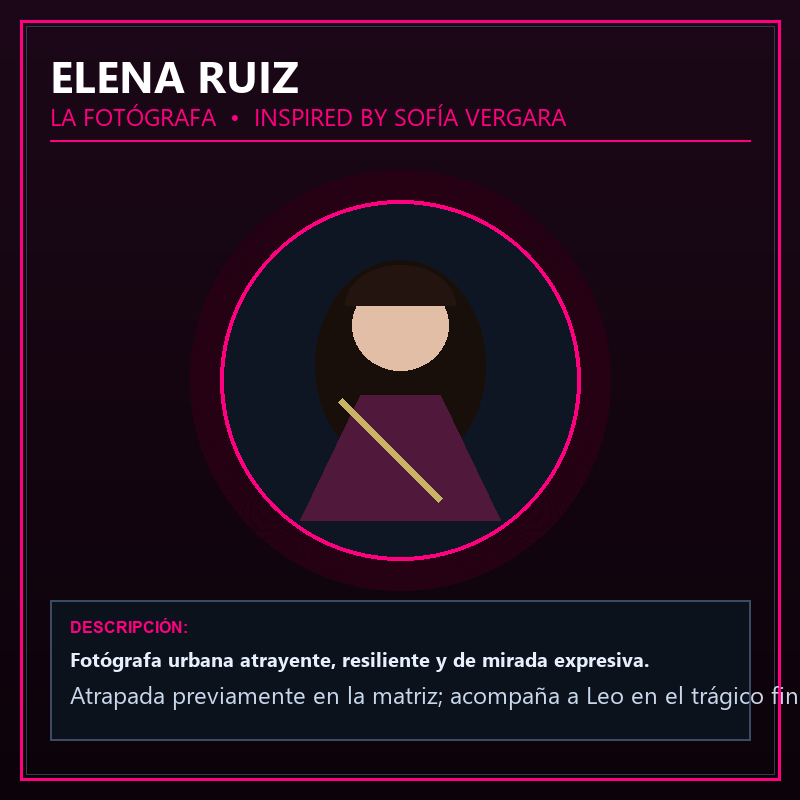
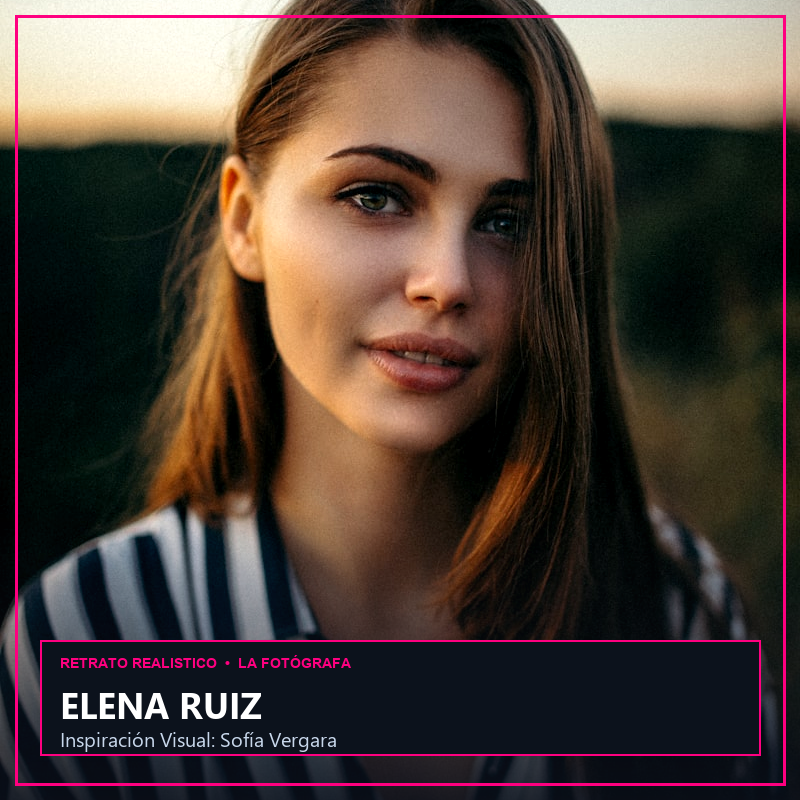
Agregar imagenes realistas de personajes en el apartado Personajes y la app web

diff --git a/chapters-data.js b/chapters-data.js
@@ -8,7 +8,7 @@ const NOVEL_DATA = {
   "totalChapters": 5,
   "totalWords": 4571,
   "totalPages": "16.6",
-  "personajesRaw": "# Ficha de Personajes y Reglas del Mundo: LIFT\n\n## Reglas Físicas y del Mundo\n\n1. **El Edificio:** Un histórico y masivo rascacielos de Nueva York (Vanderbilt Tower). Las primeras 65 plantas responden a la arquitectura convencional; a partir de la planta 66, la geometría de los huecos de ascensor se altera de forma inverosímil.\n2. **Las Cabinas:** Módulos de acero e iluminación LED que se desplazan en ejes no cartesianos (vertical, horizontal y diagonal) acoplándose entre sí.\n3. **El Entorno Final:** Una masa de oscuridad absoluta, diáfana, sin paredes detectables ni cobertura electromagnética.\n\n---\n\n## Personajes Principales\n\n### 1. Leo Vance (El Débil y Listo)\n- **Inspiración Visual:** Tobey Maguire (rasgos finos, mirada inteligente, contextura frágil y delgada, gafas de montura discreta).\n- **Rol:** Analista de datos / Paleógrafo informático.\n- **Aspecto Físico:** Delgado, frágil, tez pálida, propenso al agotamiento físico rápido y al asma de esfuerzo.\n- **Personalidad:** Observador meticuloso, deductivo, sereno bajo presión intelectual, empático.\n- **Función Narrativa:** Descifra la lógica de las cabinas y conduce el diálogo introspectivo en el desenlace.\n\n### 2. Marcus Holt (El Fuerte y Decidido)\n- **Inspiración Visual:** John Goodman (presencia imponente, corpóreo, hombros muy anchos, rostro bonachón pero curtido y resuelto).\n- **Rol:** Instructor de rescate y ex-bombero.\n- **Aspecto Físico:** Corpulento, de gran envergadura muscular, manos anchas y curtidas por el trabajo pesado.\n- **Personalidad:** Resuelto, protector, de convicciones éticas profundas, desinteresado por su propia seguridad si puede salvar a otros.\n- **Función Narrativa:** Ejecuta la fuerza bruta necesaria para abrir compuertas y aupar a Leo. Muere de forma sangrienta en el Capítulo 4 al sacrificarse por sus compañeros.\n\n### 3. Elena Ruiz (La Chica Atrapada)\n- **Inspiración Visual:** Sofía Vergara (cabello oscuro y ondeado, expresión expresiva y cautivadora, silueta atlética pero elegante).\n- **Rol:** Fotógrafa urbana y diseñadora.\n- **Aspecto Físico:** Estatura media, ropa práctica para trabajo de campo, cámara profesional colgada al cuello.\n- **Personalidad:** Resiliente, emocionalmente transparente, observadora visual.\n- **Función Narrativa:** Introduce la sospecha de la anomalía espacial al haber estado atrapada previamente en otra cabina flotante. Acompaña a Leo en el trágico viaje final.\n",
+  "personajesRaw": "# Ficha de Personajes y Reglas del Mundo: LIFT\n\n## Reglas Físicas y del Mundo\n\n1. **El Edificio:** Un histórico y masivo rascacielos de Nueva York (Vanderbilt Tower). Las primeras 65 plantas responden a la arquitectura convencional; a partir de la planta 66, la geometría de los huecos de ascensor se altera de forma inverosímil.\n2. **Las Cabinas:** Módulos de acero e iluminación LED que se desplazan en ejes no cartesianos (vertical, horizontal y diagonal) acoplándose entre sí.\n3. **El Entorno Final:** Una masa de oscuridad absoluta, diáfana, sin paredes detectables ni cobertura electromagnética.\n\n---\n\n## Personajes Principales\n\n### 1. Leo Vance (El Débil y Listo)\n![Leo Vance](img/char_leo.png)\n\n- **Inspiración Visual:** Tobey Maguire (rasgos finos, mirada inteligente, contextura frágil y delgada, gafas de montura discreta).\n- **Rol:** Analista de datos / Paleógrafo informático.\n- **Aspecto Físico:** Delgado, frágil, tez pálida, propenso al agotamiento físico rápido y al asma de esfuerzo.\n- **Personalidad:** Observador meticuloso, deductivo, sereno bajo presión intelectual, empático.\n- **Función Narrativa:** Descifra la lógica de las cabinas y conduce el diálogo introspectivo en el desenlace.\n\n---\n\n### 2. Marcus Holt (El Fuerte y Decidido)\n![Marcus Holt](img/char_marcus.png)\n\n- **Inspiración Visual:** John Goodman (presencia imponente, corpóreo, hombros muy anchos, rostro noble y bondadoso pero resuelto y curtido).\n- **Rol:** Instructor de rescate y ex-bombero.\n- **Aspecto Físico:** Corpulento, de gran envergadura muscular, manos anchas y curtidas por el trabajo pesado.\n- **Personalidad:** Resuelto, protector, de convicciones éticas profundas, desinteresado por su propia seguridad si puede salvar a otros.\n- **Función Narrativa:** Ejecuta la fuerza bruta necesaria para abrir compuertas y aupar a Leo. Muere de forma sangrienta en el Capítulo 4 al sacrificarse por sus compañeros.\n\n---\n\n### 3. Elena Ruiz (La Chica Atrapada)\n![Elena Ruiz](img/char_elena.png)\n\n- **Inspiración Visual:** Sofía Vergara (cabello oscuro y ondeado, expresión expresiva y cautivadora, silueta atlética pero elegante).\n- **Rol:** Fotógrafa urbana y diseñadora.\n- **Aspecto Físico:** Estatura media, ropa práctica para trabajo de campo, cámara profesional colgada al cuello.\n- **Personalidad:** Resiliente, emocionalmente transparente, observadora visual.\n- **Función Narrativa:** Introduce la sospecha de la anomalía espacial al haber estado atrapada previamente en otra cabina flotante. Acompaña a Leo en el trágico viaje final.\n",
   "biografiasRaw": "# Biografías Detalladas de Personajes\n\n## Leo Vance\nNacido en Boston, Leo creció inmerso en la resolución de acertijos de lógica y la informática. Su frágil salud física lo mantuvo alejado de los deportes intensos, enfocando su energía en la comprensión de estructuras complejas. Su visita al rascacielos neoyorquino era para una reunión de consultoría rutinaria.\n\n## Marcus Holt\nNativo de Brooklyn, Marcus dedicó doce años al cuerpo de rescate urbano de Nueva York. Acostumbrado a situaciones de alto peligro, posee un instinto de protección férreo hacia los demás. Tras la muerte de un compañero en un derrumbe años atrás, juró no volver a dejar a nadie atrás.\n\n## Elena Ruiz\nFotógrafa de arquitectura nacida en Madrid y residente en Nueva York. Elena había subido al edificio horas antes para capturar las vistas de la planta superior para una revista digital, quedando atrapada cuando la primera anomalía aisló los ascensores.\n",
   "escaletaRaw": "# Escaleta Oficial: El Laberinto de Acero (5 Capítulos)\n\n## Capítulo 1: El Muro entre las Plantas\n- **POV:** Leo Vance\n- **Ubicación:** Vestíbulo del Hotel Vanderbilt Tower / Cabina Express 3 (Planta 66-67).\n- **Resumen:** Encuentro casual en el vestíbulo entre Leo y Marcus. El ascensor se detiene violentamente entre las plantas 66 y 67. Intentos infructuosos de llamar al intercomunicador. Al forzar las puertas frontales, descubren un muro de hormigón ciego.\n\n## Capítulo 2: La Escotilla y la Segunda Cabina\n- **POV:** Marcus Holt / Leo Vance\n- **Ubicación:** Techo del ascensor / Cabina adyacente.\n- **Resumen:** Marcus aúpa a Leo al techo. Con la luz del móvil divisan una puerta lejana en el hueco, pero Leo no logra abrirla solo. Al bajar, el ascensor se desplaza horizontalmente. Las puertas se abren a la cabina de otro ascensor atrapado con Elena en su interior.\n\n## Capítulo 3: La Geometría Imposible\n- **POV:** Elena Ruiz / Leo Vance\n- **Ubicación:** Entramado de cabinas flotantes.\n- **Resumen:** Los tres atrapados descubren que las cabinas se mueven en un puzzle tridimensional. Cruzar entre módulos exige saltos sincronizados y análisis de patrones geométricos.\n\n## Capítulo 4: La Prensa de Metal\n- **POV:** Leo Vance\n- **Ubicación:** Intersección entre la Cabina 3 y la Cabina 7.\n- **Resumen:** Una transición crítica entre cabinas sufre un fallo estructural de movimiento. Marcus se sacrifica sosteniendo los marcos para que Leo y Elena crucen. El mecanismo aplasta trágicamente a Marcus en una sangrienta escena gore. Leo y Elena son arrojados al suelo bañados en sangre.\n\n## Capítulo 5: El Vacío y las Cuentas Pendientes\n- **POV:** Leo Vance / Elena Ruiz\n- **Ubicación:** La Inmensidad Penumbrosa.\n- **Resumen:** La cabina final abre sus puertas a un espacio diáfano y negro. Avanzan a ciegas con la batería del teléfono hasta quedarse a oscuras y sin cobertura. Agotados y moribundos, entablan una conversación profunda repasando lo hecho y lo no hecho en sus vidas antes de fallecer.\n",
   "genesisRaw": "# Génesis y Dirección Creativa: LIFT\n\n> **Dirección Creativa y Producción:** Pedro Garat  \n> **Co-Creación Narrativa y Asistencia Técnica:** Antigravity AI  \n> **Formato:** Relato Corto en 5 Capítulos  \n> **Género:** Thriller Claustrofóbico / Terror Psicológico & Surrealista / Drama Trágico  \n\n---\n\n## 1. Núcleo Dramático y Filosofía\n\n***LIFT*** explora la fragilidad de la rutina urbana y la ilusión de control en los grandes símbolos del progreso humano. Lo que comienza como una parada técnica ordinaria en el ascensor de un emblemático rascacielos neoyorquino (Vanderbilt Tower) degenera rápidamente en un laberinto geométricamente imposible.\n\n### Conflictos Clave:\n1. **La Coexistencia Físico-Intelectual:** La dinámica entre Leo (inspirado en Tobey Maguire, la mente perspicaz pero el cuerpo débil) y Marcus (inspirado en John Goodman, la fuerza física y la determinación protectora).\n2. **La Deshumanización del Espacio:** El paso de una máquina cotidiana (un ascensor) a un rompecabezas mortal e impredecible.\n3. **El Sacrificio Visceral:** La muerte brutal e insalvable de Marcus como catalizador del horror y la pérdida.\n4. **El Examen Final de la Existencia:** El contrapunto entre el caos violento del laberinto y la paz trágica del vacío final, donde Leo y Elena (inspirada en Sofía Vergara) enfrentan sus cuentas pendientes antes de morir.\n",

diff --git a/novela/personajes.md b/novela/personajes.md
@@ -11,20 +11,30 @@
 ## Personajes Principales
 
 ### 1. Leo Vance (El Débil y Listo)
+![Leo Vance](img/char_leo.png)
+
 - **Inspiración Visual:** Tobey Maguire (rasgos finos, mirada inteligente, contextura frágil y delgada, gafas de montura discreta).
 - **Rol:** Analista de datos / Paleógrafo informático.
 - **Aspecto Físico:** Delgado, frágil, tez pálida, propenso al agotamiento físico rápido y al asma de esfuerzo.
 - **Personalidad:** Observador meticuloso, deductivo, sereno bajo presión intelectual, empático.
 - **Función Narrativa:** Descifra la lógica de las cabinas y conduce el diálogo introspectivo en el desenlace.
 
+---
+
 ### 2. Marcus Holt (El Fuerte y Decidido)
-- **Inspiración Visual:** John Goodman (presencia imponente, corpóreo, hombros muy anchos, rostro bonachón pero curtido y resuelto).
+![Marcus Holt](img/char_marcus.png)
+
+- **Inspiración Visual:** John Goodman (presencia imponente, corpóreo, hombros muy anchos, rostro noble y bondadoso pero resuelto y curtido).
 - **Rol:** Instructor de rescate y ex-bombero.
 - **Aspecto Físico:** Corpulento, de gran envergadura muscular, manos anchas y curtidas por el trabajo pesado.
 - **Personalidad:** Resuelto, protector, de convicciones éticas profundas, desinteresado por su propia seguridad si puede salvar a otros.
 - **Función Narrativa:** Ejecuta la fuerza bruta necesaria para abrir compuertas y aupar a Leo. Muere de forma sangrienta en el Capítulo 4 al sacrificarse por sus compañeros.
 
+---
+
 ### 3. Elena Ruiz (La Chica Atrapada)
+![Elena Ruiz](img/char_elena.png)
+
 - **Inspiración Visual:** Sofía Vergara (cabello oscuro y ondeado, expresión expresiva y cautivadora, silueta atlética pero elegante).
 - **Rol:** Fotógrafa urbana y diseñadora.
 - **Aspecto Físico:** Estatura media, ropa práctica para trabajo de campo, cámara profesional colgada al cuello.
